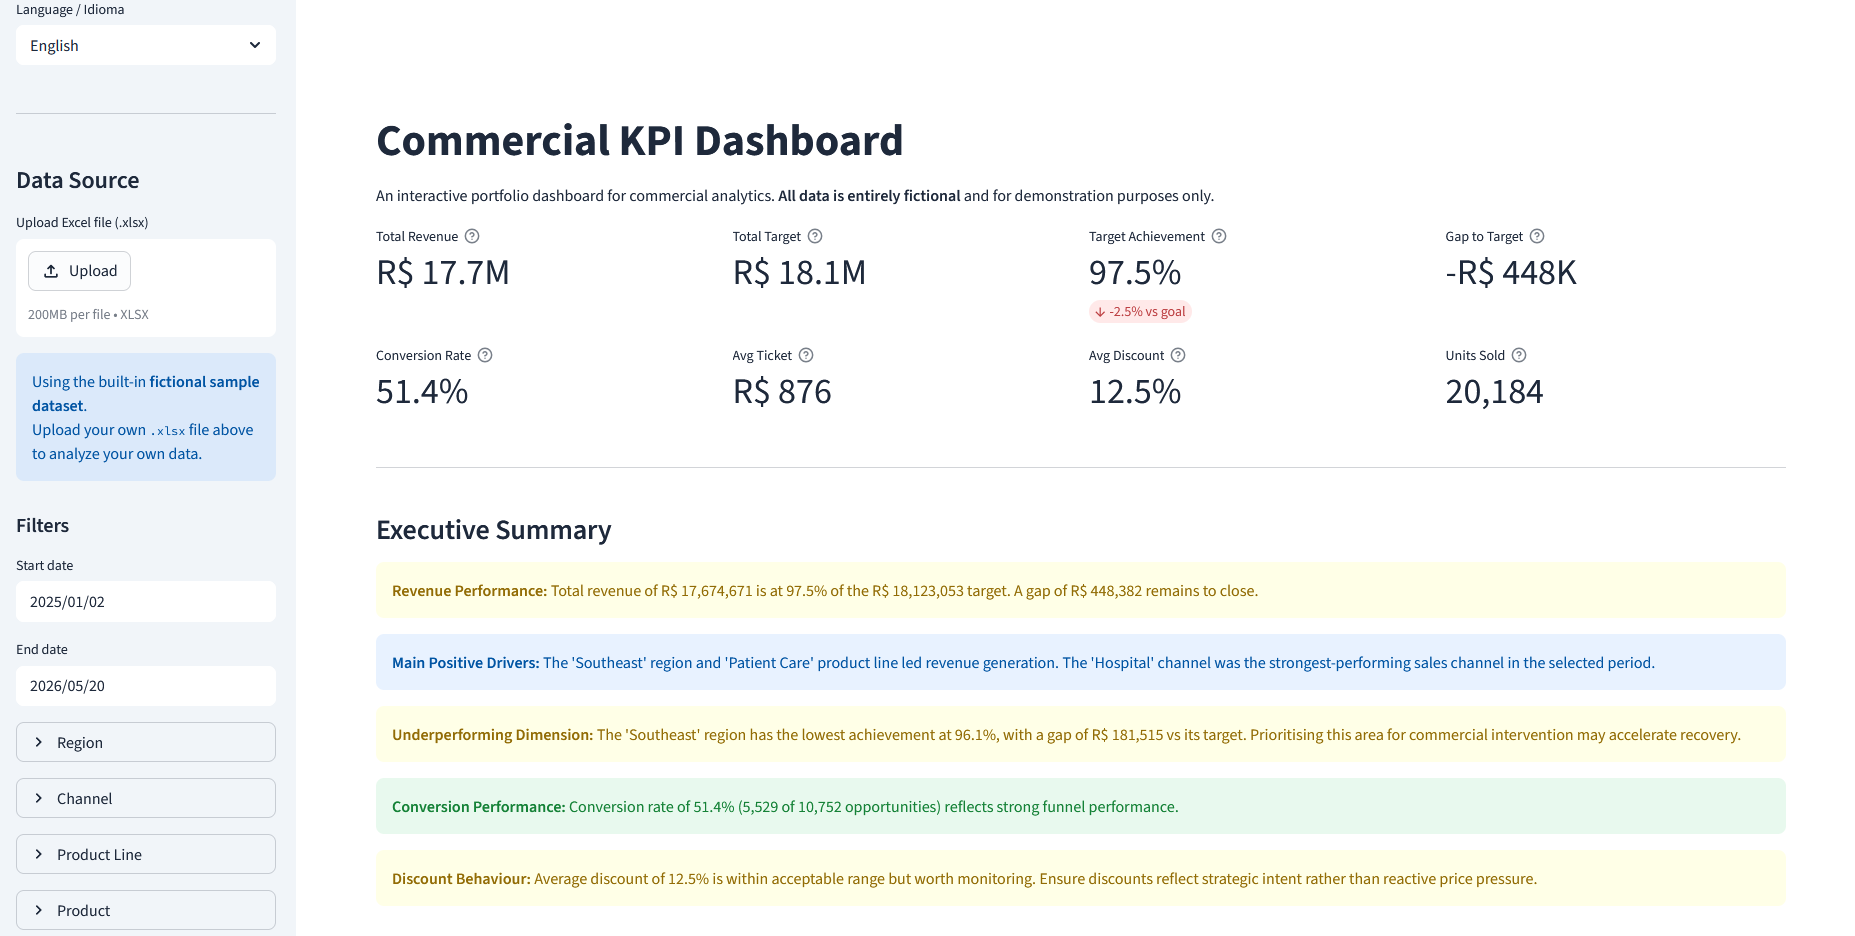
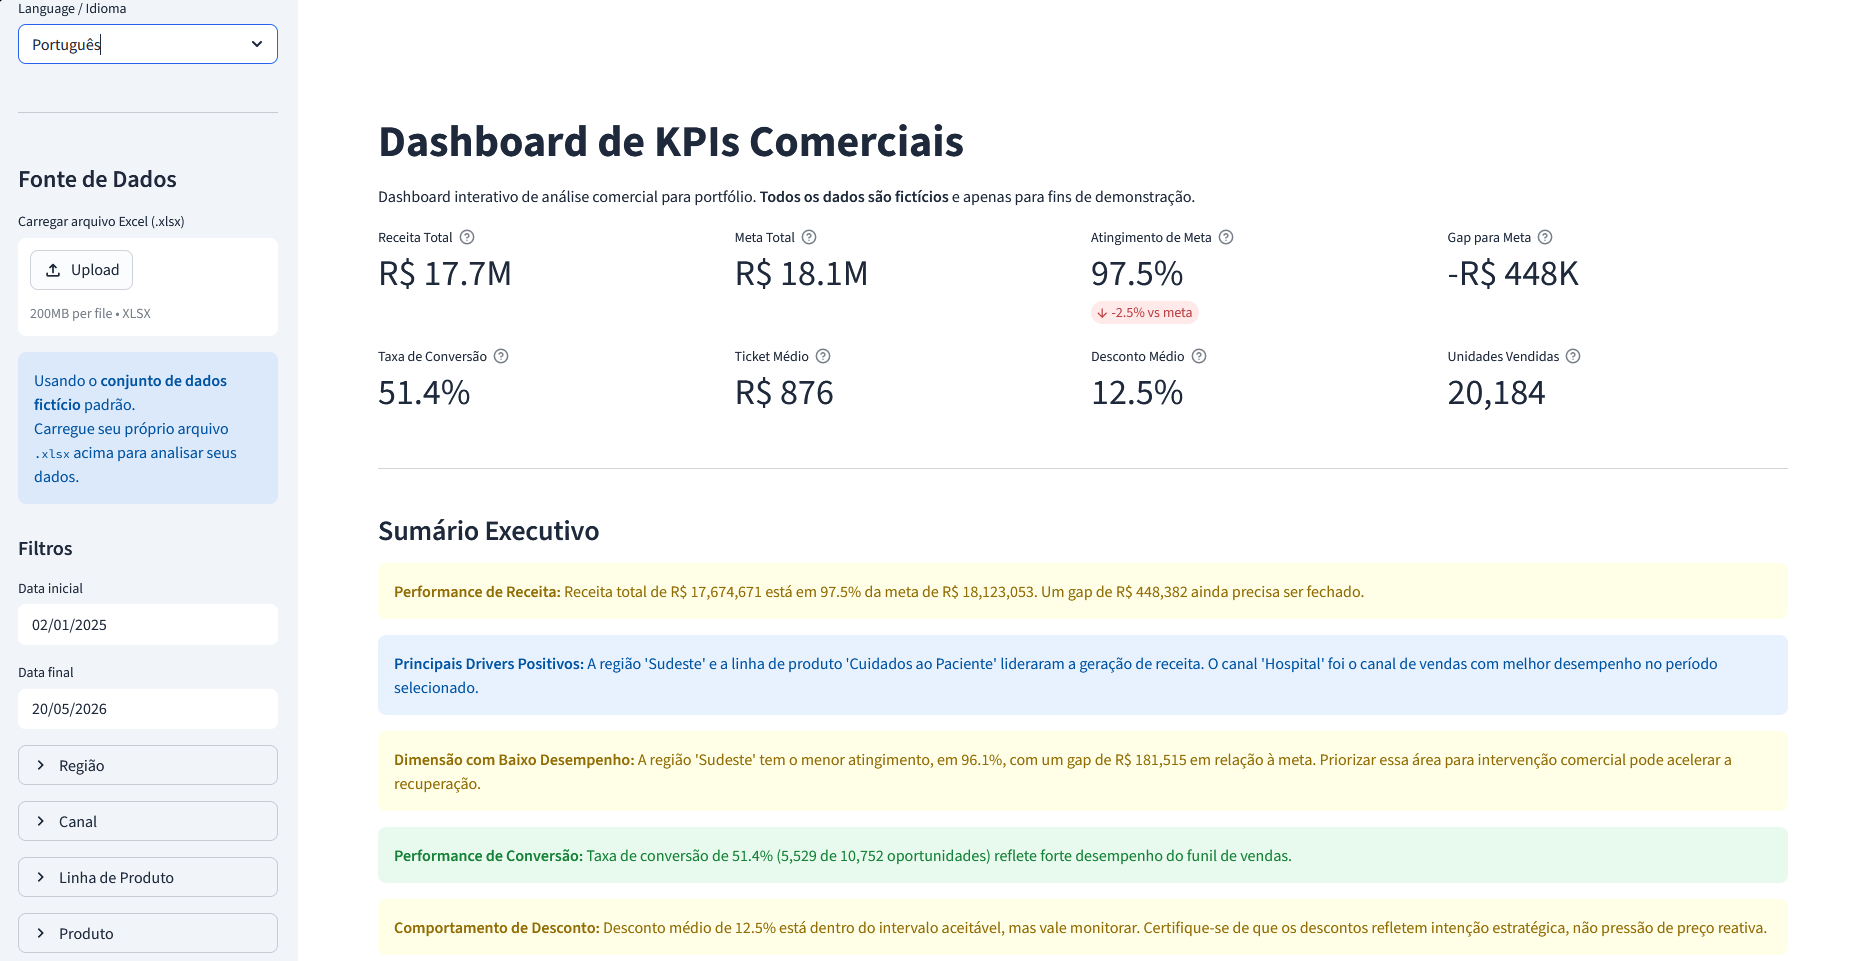
docs: add all five Portuguese dashboard screenshots to README preview section

diff --git a/README.md b/README.md
@@ -15,13 +15,22 @@
 
 ## Capturas do Dashboard
 
-As imagens abaixo mostram o dashboard Streamlit em execução com dados fictícios de amostra.
+As imagens abaixo mostram o dashboard em português rodando com dados fictícios de amostra.
 
-![Dashboard Screenshot](assets/screenshot.png)
-*Visão geral — cards de KPI, resumo executivo e gráficos de tendência mensal*
+![Visão geral do dashboard](assets/screenshot.png)
+*Visão geral com filtros, KPIs e resumo executivo*
 
-![Dashboard Screenshot 2](assets/screenshot2.png)
-*Diagnóstico de performance — breakdowns por região, canal e linha de produto*
+![Resumo executivo e KPIs](assets/screenshot2.png)
+*Análise de atingimento, receita e principais indicadores*
+
+![Gráficos de desempenho comercial](assets/screenshot3.png)
+*Gráficos de receita, meta, canais e linhas de produto*
+
+![Diagnósticos por dimensão](assets/screenshot4.png)
+*Diagnósticos por região, canal e linha de produto*
+
+![Tabela filtrada e exportações](assets/screenshot5.png)
+*Tabela filtrada e exportações em CSV*
 
 ---
 
@@ -142,8 +151,11 @@ KPI/
 │   ├── test_i18n.py                 # Testes para traduções i18n
 │   └── test_display_map.py          # Testes para mapeamento de exibição
 ├── assets/
-│   ├── screenshot.png               # Captura 1 — visão geral do dashboard
-│   └── screenshot2.png              # Captura 2 — diagnóstico de performance
+│   ├── screenshot.png               # Captura 1 — visão geral com filtros e KPIs
+│   ├── screenshot2.png              # Captura 2 — atingimento e indicadores
+│   ├── screenshot3.png              # Captura 3 — gráficos de receita e meta
+│   ├── screenshot4.png              # Captura 4 — diagnósticos por dimensão
+│   └── screenshot5.png              # Captura 5 — tabela filtrada e exportações
 └── docs/
 ```
 